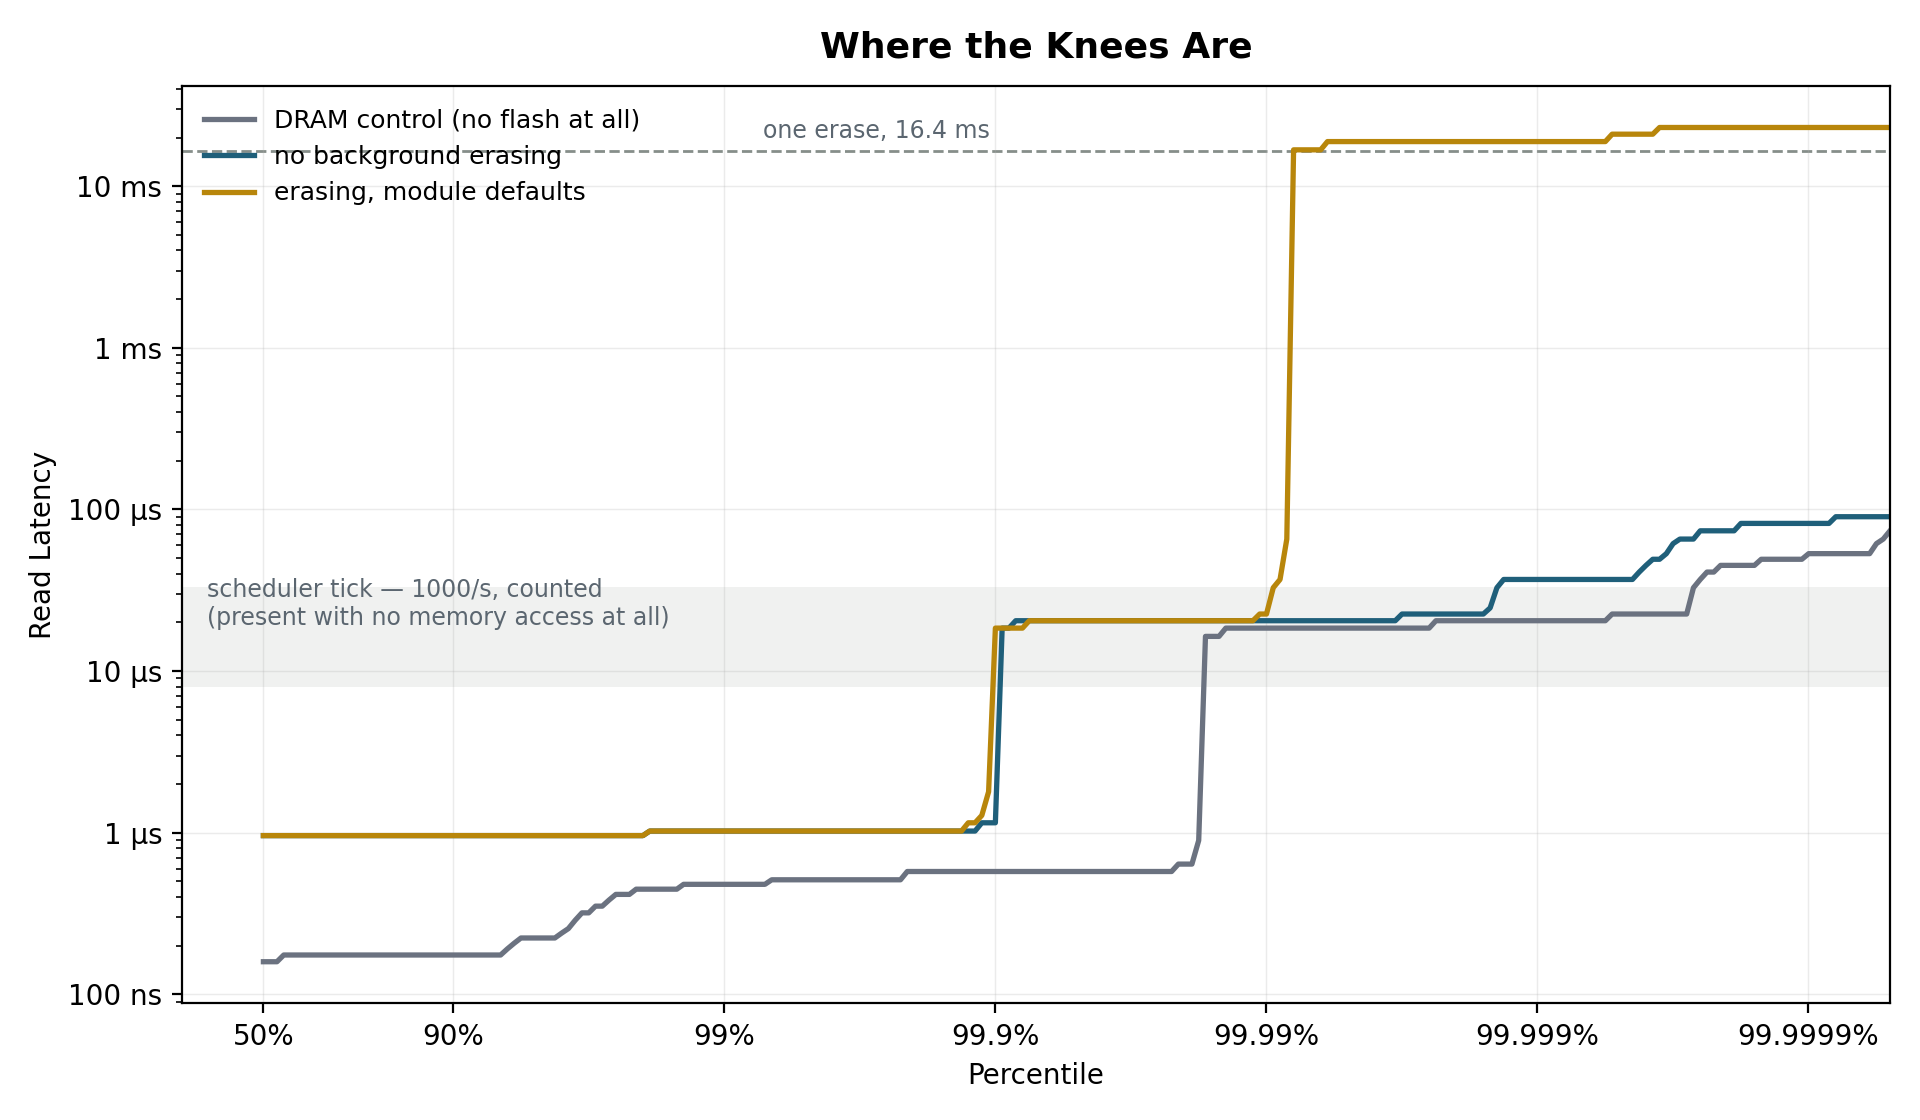
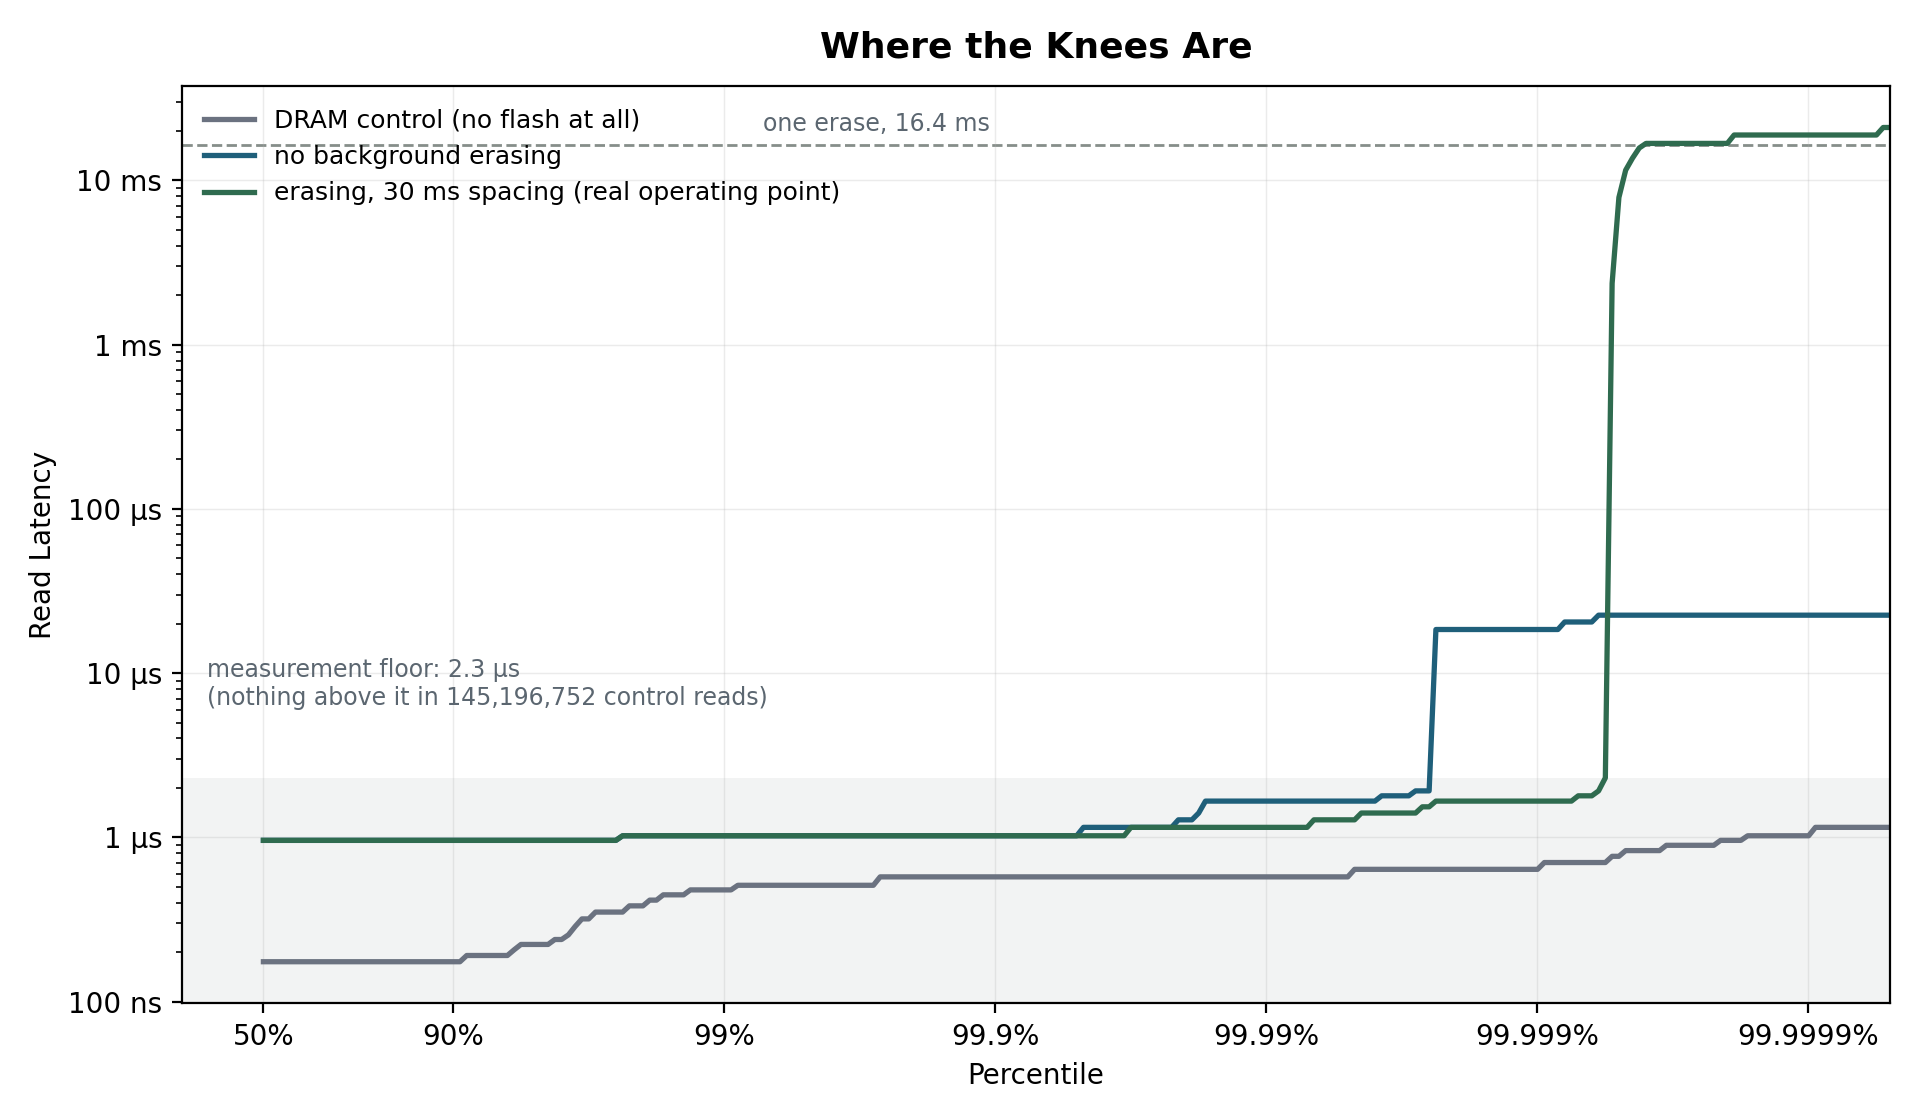
fig9/9b on the clean floor: three conditions, and the floor is drawn not asserted
Shows DRAM control, no background erasing, and erasing at the REAL operating
point (target_pid attached, 30 ms spacing). engine_normal is excluded because
the hysteresis bug meant it measured nothing, and plotting it would show a
suspiciously clean "erasing" curve that was not erasing. engine_flat_out is
excluded as the unspaced case, which only exists because clearing target_pid
disables the reader spacing -- an artefact of how we measured, not a state the
system runs in. Both remain in qos.csv.

The shaded band is no longer "the scheduler tick": the tick is gone. It is now
the measurement floor, taken from the control rather than claimed -- 2.3 us,
with nothing above it in 145,196,752 reads. Anything above the band is the
device.

diff --git a/scripts/plot_selftest.py b/scripts/plot_selftest.py
@@ -553,7 +553,15 @@ if r:
     # operationally the same experiment and measured within 0.3% of each other.
     # The data stays in qos.csv; showing both curves implies a comparison that
     # was not actually being made.
-    HIDE = {"engine_flat_out"}
+    # engine_normal is EXCLUDED because it measured nothing: setting the
+    # watermarks does not start the engine when the hysteresis latch is already
+    # off and clean sits between the marks, so that phase recorded ~0 erases.
+    # Plotting it would show a suspiciously clean "erasing" curve that was not
+    # erasing. engine_flat_out is excluded as the unspaced worst case -- it is
+    # real, but it is not an operating point the system runs in, because the
+    # 30 ms reader spacing is only disabled by clearing target_pid, which is a
+    # measurement artefact. Both stay in qos.csv.
+    HIDE = {"engine_normal", "engine_flat_out"}
     have = [(c,) + LABEL.get(c, (C_MODEL, c.replace("_", " "))) for c in present
             if hist(c) and c not in HIDE]
     if have:
@@ -638,18 +646,20 @@ if r:
             xs = [nines(q) for q in qs]
             ys = [pct(cond, q) for q in qs]
             ax2.plot(xs, ys, "-", color=colour, lw=1.9, label=label)
-        # Both populations are now identified, so name them on the figure
-        # rather than leaving two anonymous knees. The lower band is the
-        # scheduler tick: 60,012 arch_timer interrupts counted on the pinned
-        # CPU over 60 s, and the latency data independently gives a period of
-        # 999.9 us with 100% of inter-arrivals integer multiples of it. It
-        # survives with the memory access removed, so it is the machine, not
-        # the medium. The upper line is one erase.
-        ax2.axhspan(8_000_000 / 1000, 33_000_000 / 1000, color=C_GRID,
-                    alpha=.12, lw=0, zorder=0)
-        ax2.annotate("scheduler tick \u2014 1000/s, counted\n(present with no memory access at all)",
-                     (0.015, 26_000), xycoords=("axes fraction", "data"),
-                     fontsize=8.5, color="#5b6670", va="center")
+        # The floor, drawn from the control rather than asserted. With
+        # nohz_full=47 isolcpus=47 the scheduler tick is gone -- 60,012
+        # arch_timer interrupts per 60 s became ~0 -- and the DRAM control now
+        # records NOTHING above 100 us in 145,196,752 reads. So the shaded band
+        # is not noise to be tolerated, it is the resolution limit: anything
+        # above it is the device. The dashed line is one erase.
+        ctl = [c for c, _, _ in have if c == "dram_control"]
+        if ctl:
+            fl = pct(ctl[0], 1.0)
+            ax2.axhspan(0, fl, color=C_GRID, alpha=.10, lw=0, zorder=0)
+            ax2.annotate(f"measurement floor: {fl/1000:.1f} \u00b5s\n"
+                         f"(nothing above it in {sum(c for _, c in hist(ctl[0])):,} control reads)",
+                         (0.015, fl * 2.6), xycoords=("axes fraction", "data"),
+                         fontsize=8.5, color="#5b6670", va="bottom")
         ax2.axhline(16_400_000, color=C_GRID, lw=1, ls="--", zorder=1)
         # Right-aligned: the legend owns the top-left, and the curves reach
         # this line only at the far right, so the label sits over empty axis.
